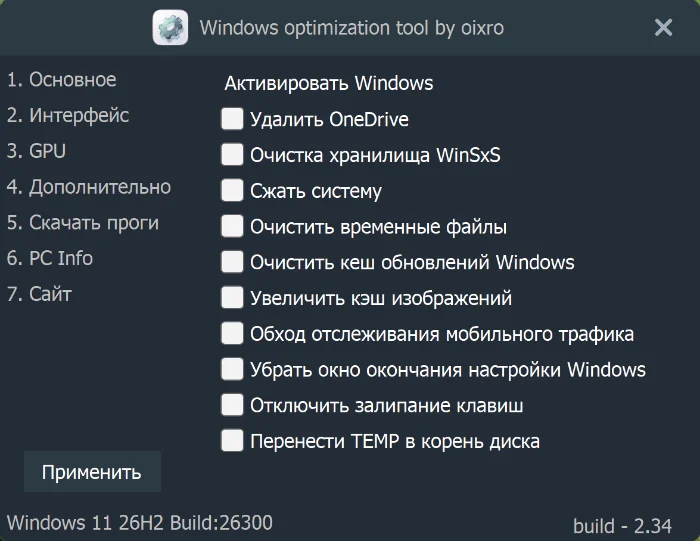
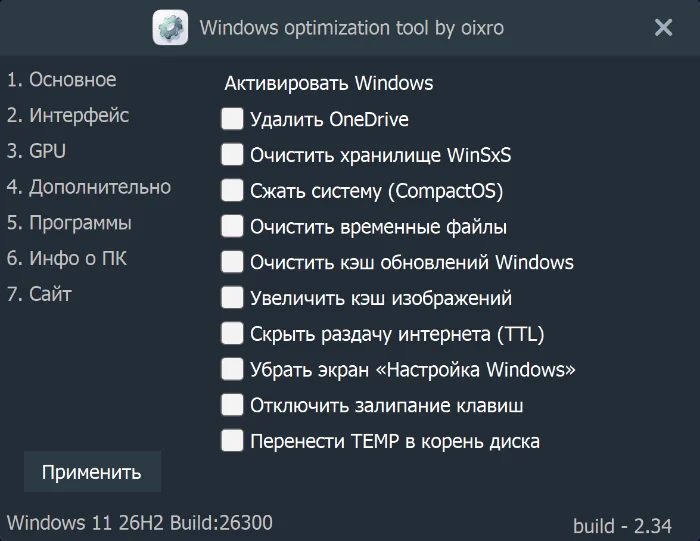
Refresh screenshots and labels for the 2.34 UI
- new captures from the Desktop set (renamed panels and items)
- tabs 5 and 6 renamed: Программы, Инфо о ПК
- feature texts updated to the current wording (memory management, CPU quantum, TTL, Mica, cursors)
- cache-busted assets v=20261115b

diff --git a/index.html b/index.html
@@ -20,7 +20,7 @@
 
 <link rel="icon" href="img/icon.png" type="image/png" sizes="192x192">
 <link rel="apple-touch-icon" href="img/icon.png">
-<link rel="stylesheet" href="css/style.css?v=20261115a">
+<link rel="stylesheet" href="css/style.css?v=20261115b">
 
 <script>
 /* тема до первой отрисовки — без вспышки */
@@ -114,12 +114,12 @@
                 <article class="card">
                     <b aria-hidden="true">⚙</b>
                     <h3>Основное</h3>
-                    <p>Реестр, Defender, схема питания, гибернация, файл подкачки, MPO, USB, Spectre/Meltdown, задержка звука, DWM Input, DPC/ISR.</p>
+                    <p>Базовые настройки Windows, Defender, схема питания, гибернация, файл подкачки, MPO, USB, Spectre/Meltdown, управление памятью, квант времени CPU.</p>
                 </article>
                 <article class="card">
                     <b aria-hidden="true">🎨</b>
                     <h3>Интерфейс</h3>
-                    <p>Кнопки окон, мелкие настройки проводника, сжатие обоев, синие папки, старое контекстное меню, прозрачный проводник, новые курсоры.</p>
+                    <p>Кнопки окна, тонкие настройки проводника, сжатие обоев, синие папки, классическое контекстное меню и шапка, прозрачный проводник (Mica), новые курсоры.</p>
                 </article>
                 <article class="card">
                     <b aria-hidden="true">🎮</b>
@@ -129,16 +129,16 @@
                 <article class="card">
                     <b aria-hidden="true">🧹</b>
                     <h3>Дополнительно</h3>
-                    <p>OneDrive, WinSxS, сжатие системы, временные файлы, кеш обновлений и изображений, Edge, Bufferbloat, приоритеты процессов.</p>
+                    <p>OneDrive, WinSxS, сжатие системы (CompactOS), временные файлы, кэш обновлений и изображений, скрытие раздачи интернета (TTL), Edge, Bufferbloat, приоритеты.</p>
                 </article>
                 <article class="card">
                     <b aria-hidden="true">📦</b>
-                    <h3>Скачать проги</h3>
+                    <h3>Программы</h3>
                     <p>19 программ: 7-Zip, Steam, Discord, Telegram, OBS, Chrome, HWiNFO, RustDesk и другие.</p>
                 </article>
                 <article class="card">
                     <b aria-hidden="true">🖥</b>
-                    <h3>PC Info</h3>
+                    <h3>Инфо о ПК</h3>
                     <p>Процессор и его частота, материнская плата, GPU, объём ОЗУ, экран, версия Windows и дата установки.</p>
                 </article>
             </div>
@@ -190,12 +190,12 @@
             <div class="shots">
                 <figure class="shot">
                     <img src="img/main.webp" width="700" height="541" loading="lazy" decoding="async"
-                         alt="Раздел «Основное»: реестр, Defender, питание, MPO, USB, файл подкачки">
+                         alt="Раздел «Основное»: базовые настройки Windows, Defender, питание, MPO, USB, файл подкачки">
                     <figcaption>1. Основное</figcaption>
                 </figure>
                 <figure class="shot">
                     <img src="img/interface.webp" width="700" height="541" loading="lazy" decoding="async"
-                         alt="Раздел «Интерфейс»: кнопки окон, синие папки, контекстное меню, курсоры">
+                         alt="Раздел «Интерфейс»: кнопки окна, синие папки, контекстное меню, курсоры">
                     <figcaption>2. Интерфейс</figcaption>
                 </figure>
                 <figure class="shot">
@@ -205,18 +205,18 @@
                 </figure>
                 <figure class="shot">
                     <img src="img/extra.webp" width="700" height="541" loading="lazy" decoding="async"
-                         alt="Раздел «Дополнительно»: OneDrive, WinSxS, очистка, кеш, Edge">
+                         alt="Раздел «Дополнительно»: OneDrive, WinSxS, очистка, кэш, TTL, Edge">
                     <figcaption>4. Дополнительно</figcaption>
                 </figure>
                 <figure class="shot">
                     <img src="img/downloads.webp" width="700" height="541" loading="lazy" decoding="async"
-                         alt="Раздел «Скачать проги»: список из 19 программ">
-                    <figcaption>5. Скачать проги</figcaption>
+                         alt="Раздел «Программы»: список из 19 программ">
+                    <figcaption>5. Программы</figcaption>
                 </figure>
                 <figure class="shot">
                     <img src="img/pc-info.webp" width="700" height="541" loading="lazy" decoding="async"
-                         alt="Раздел «PC Info»: процессор, плата, GPU, ОЗУ, экран, версия Windows">
-                    <figcaption>6. PC Info</figcaption>
+                         alt="Раздел «Инфо о ПК»: процессор, плата, GPU, ОЗУ, экран, версия Windows">
+                    <figcaption>6. Инфо о ПК</figcaption>
                 </figure>
             </div>
         </div>
